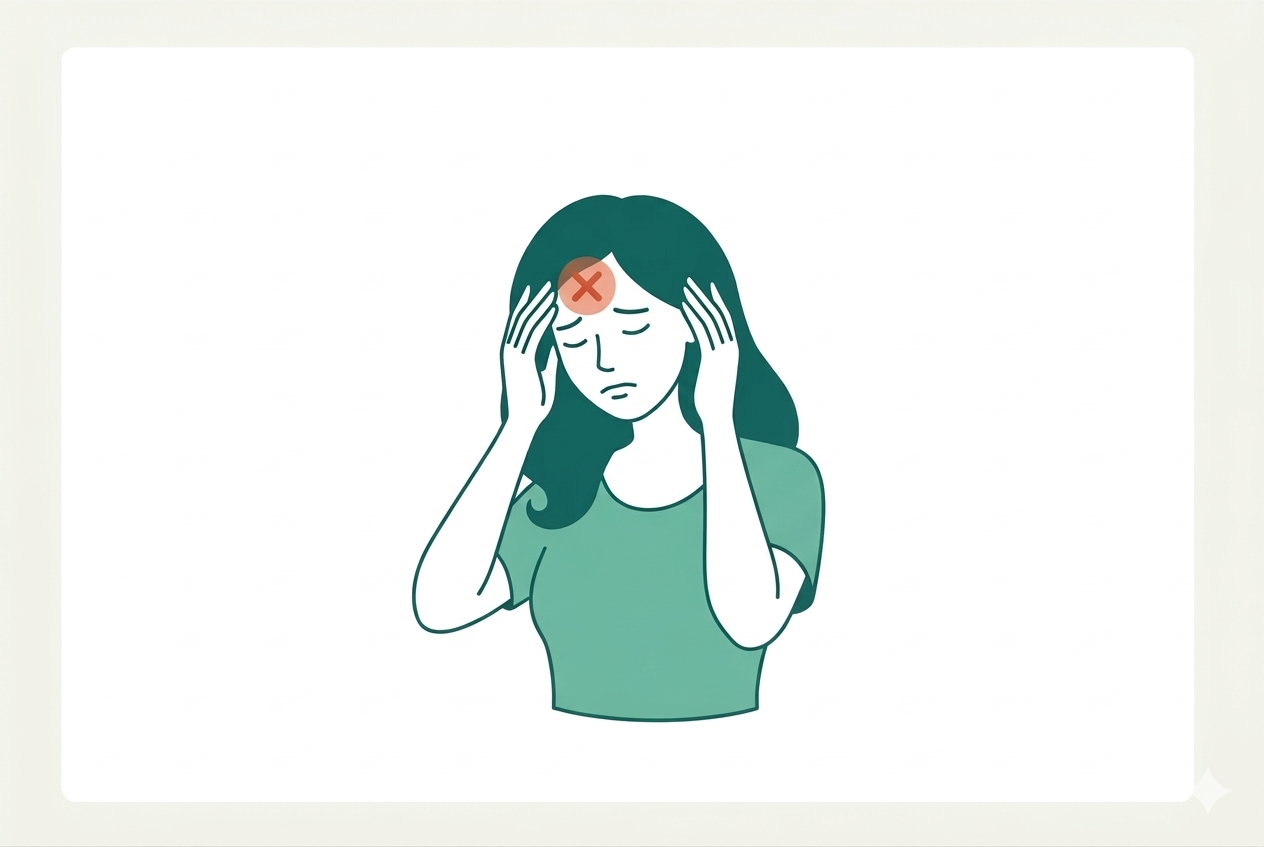
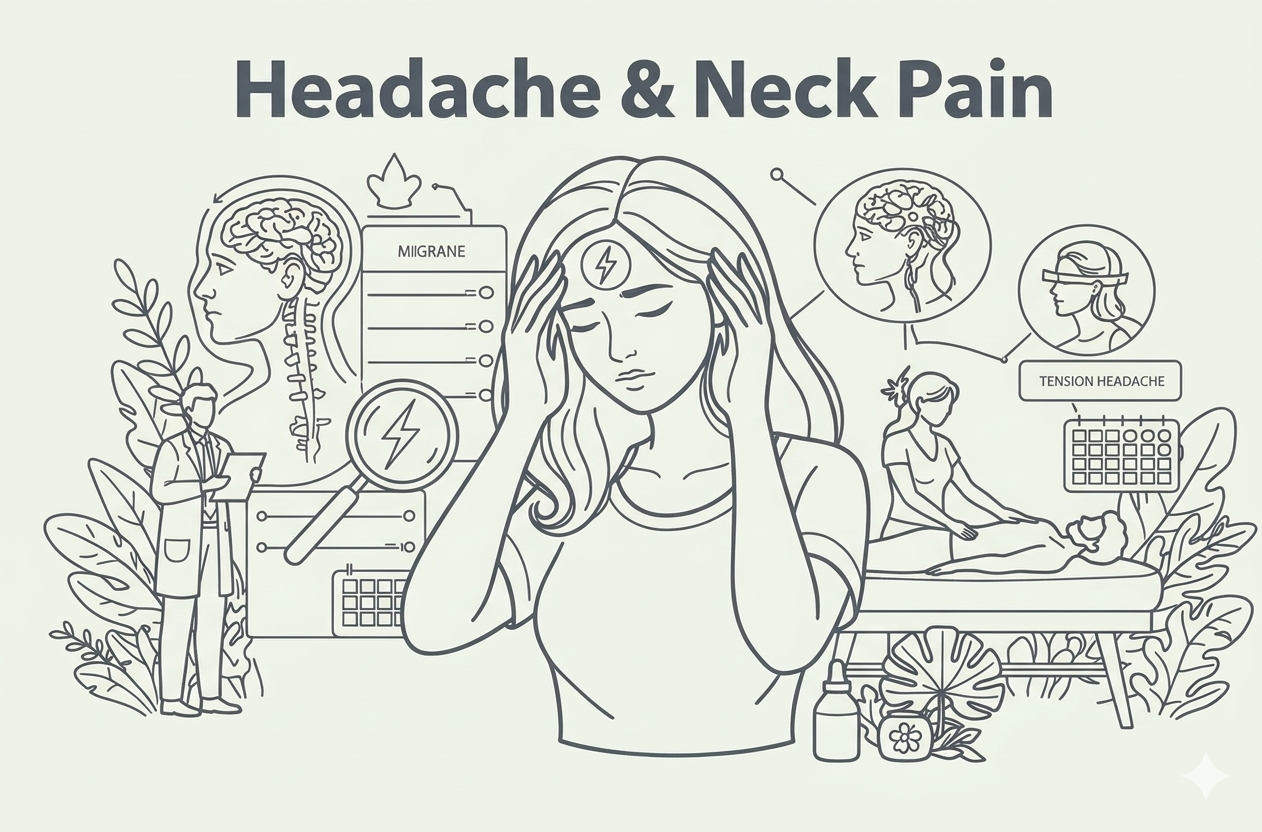
update image of services

diff --git a/app/about/page.js b/app/about/page.js
@@ -202,98 +202,97 @@ export default function AboutUs() {
           className="p-4 shadow-sm rounded-4"
           style={{ backgroundColor: "var(--color-card)" }}
         >
-          <Row className="g-4">
-            <Col md={4} style={{ position: "relative", minHeight: "300px" }}>
-              <Image
-                src="/aboutimg.jpg"
-                alt="About Me"
-                fill
-                className="rounded-4"
-                style={{ objectFit: "cover", borderRadius: "1rem" }}
-              />
-            </Col>
+          <Row className="g-5">
+          {/* IMAGE */}
+          <Col md={4} style={{ position: "relative", minHeight: "300px" }}>
+            <Image
+              src="/aboutimg.jpg"
+              alt="About Me"
+              fill
+              className="rounded-4"
+              style={{ objectFit: "cover", borderRadius: "1rem" }}
+            />
+          </Col>
 
-            <Col md={8}>
+          {/* TEXT */}
+          <Col md={8} className="ps-md-4">
+            <p
+              style={{
+                color: "var(--color-accent)",
+                fontSize: "var(--font-size-mlg)",
+                fontWeight: "var(--font-weight-regular)",
+              }}
+            >
+              I am dedicated to improving function, reducing pain, and enhancing
+              overall quality of life through comprehensive musculoskeletal and
+              pelvic health physiotherapy. I’m passionate about helping people feel
+              stronger, move with confidence, and reconnect with their bodies. My
+              career has taken me through a wide range of physiotherapy settings—from
+              acute rehabilitation, community/aged-care and neurology to pediatrics,
+              musculoskeletal care, and now expanding special interest in women’s and
+              pelvic health.
+            </p>
+
+            <p
+              style={{
+                color: "var(--color-accent)",
+                fontSize: "var(--font-size-mlg)",
+                fontWeight: "var(--font-weight-regular)",
+              }}
+            >
+              Since graduating in 2011, I’ve worked in private hospitals overseas
+              before settling in Launceston in 2017. Here in Australia, I’ve
+              continued to refine my MSK skills and develop a deep interest in
+              supporting women through all stages of life.
+            </p>
+
+            <p
+              style={{
+                color: "var(--color-accent)",
+                fontSize: "var(--font-size-mlg)",
+                fontWeight: "var(--font-weight-regular)",
+              }}
+            >
+              I believe in empowering people with knowledge, support, and practical
+              strategies that make a real difference. Every treatment plan I create
+              is personalized, realistic, and built around the individual—not just
+              their symptoms. My goal is to provide care that truly empowers you to
+              heal, strengthen, move, and thrive.
+            </p>
+
+            <Card
+              className="border-start border-3 border-success p-3 my-3"
+              style={{ backgroundColor: "var(--color-card)" }}
+            >
               <p
+                className="mb-0"
                 style={{
                   color: "var(--color-accent)",
-                  fontSize: "var(--font-size-mlg)",
-                  fontWeight: "var(--font-weight-regular)",
+                  fontWeight: "var(--font-weight-bold)",
                 }}
               >
-                I am dedicated to improving function, reducing pain, and
-                enhancing overall quality of life through comprehensive
-                musculoskeletal and pelvic health physiotherapy. I’m passionate
-                about helping people feel stronger, move with confidence, and
-                reconnect with their bodies. My career has taken me through a
-                wide range of physiotherapy settings—from acute rehabilitation,
-                community/aged-care and neurology to pediatrics, musculoskeletal
-                care, and now expanding special interest in women’s and pelvic
-                health.
+                <strong>
+                  <em>
+                    “I do not treat your scan or just your symptoms. I treat you —
+                    and how those symptoms affect your life, your relationships,
+                    and what is important to you.”
+                  </em>
+                </strong>
               </p>
+            </Card>
 
-              <p
-                style={{
-                  color: "var(--color-accent)",
-                  fontSize: "var(--font-size-mlg)",
-                  fontWeight: "var(--font-weight-regular)",
-                }}
-              >
-                Since graduating in 2011, I’ve worked in private hospitals
-                overseas before settling in Launceston in 2017. Here in
-                Australia, I’ve continued to refine my MSK skills and develop a
-                deep interest in supporting women through all stages of life.
-              </p>
-
-              <p
-                style={{
-                  color: "var(--color-accent)",
-                  fontSize: "var(--font-size-mlg)",
-                  fontWeight: "var(--font-weight-regular)",
-                }}
-              >
-                I believe in empowering people with knowledge, support, and
-                practical strategies that make a real difference. Every
-                treatment plan I create is personalized, realistic, and built
-                around the individual—not just their symptoms. My goal is to
-                provide care that truly empowers you to heal, strengthen, move,
-                and thrive.
-              </p>
-
-              <Card
-                className="border-start border-3 border-success p-3 my-3"
-                style={{ backgroundColor: "var(--color-card)" }}
-              >
-                <p
-                  className="mb-0"
-                  style={{
-                    color: "var(--color-accent)",
-                    fontWeight: "var(--font-weight-bold)",
-                  }}
-                >
-                  <strong>
-                    <em>
-                      “I do not treat your scan or just your symptoms. I treat
-                      you — and how those symptoms affect your life, your
-                      relationships, and what is important to you.”
-                    </em>
-                  </strong>
-                </p>
-              </Card>
-
-              <p
-                style={{
-                  color: "var(--color-accent)",
-                  fontSize: "var(--font-size-mlg)",
-                  fontWeight: "var(--font-weight-regular)",
-                }}
-              >
-                This reflects my belief that every person’s experience of pain
-                and recovery is unique and deserves care that sees the whole
-                individual.
-              </p>
-            </Col>
-          </Row>
+            <p
+              style={{
+                color: "var(--color-accent)",
+                fontSize: "var(--font-size-mlg)",
+                fontWeight: "var(--font-weight-regular)",
+              }}
+            >
+              This reflects my belief that every person’s experience of pain and
+              recovery is unique and deserves care that sees the whole individual.
+            </p>
+          </Col>
+        </Row>
 
           <Row className="text-center mt-4 g-4">
             <Col md={3}>

diff --git a/app/services/pre-post-surgery/page.js b/app/services/pre-post-surgery/page.js
@@ -2,7 +2,7 @@
 export const dynamic = "force-static";
 import React, { useEffect } from "react";
 import Image from "next/image";
-import surgery from "../../../public/prepost.png";
+import surgery from "../../../public/prepost1.png";
 import { Container, Row, Col, Card, Button } from "react-bootstrap";
 import { GiMuscleUp, GiLaserGun, GiHand, GiJawbone } from "react-icons/gi";
 import { FaCheck } from "react-icons/fa";

diff --git a/app/services/tmj-dysfunction/page.js b/app/services/tmj-dysfunction/page.js
@@ -2,7 +2,7 @@
 export const dynamic = "force-static";
 import React, { useEffect } from "react";
 import Image from "next/image";
-import tmj from "../../../public/tmj.png"; // put your image in the public folder
+import tmj from "../../../public/tmj1.png"; // put your image in the public folder
 import { Container, Row, Col, Card, Button } from "react-bootstrap";
 import {
   GiMuscleUp,

diff --git a/app/services/laser/page.js b/app/services/laser/page.js
@@ -5,7 +5,7 @@ import { Container, Row, Col, Card, Button } from "react-bootstrap";
 import { GiLaserGun } from "react-icons/gi";
 import { FaCheck } from "react-icons/fa";
 import Image from "next/image";
-import laser from "../../../public/laser.png";
+import laser from "../../../public/laser1.png";
 
 export default function ServiceDetailLaser() {
    useEffect(() => {

diff --git a/app/services/headache-neck-pain/page.js b/app/services/headache-neck-pain/page.js
@@ -2,7 +2,7 @@
 export const dynamic = "force-static";
 import React, { useEffect } from "react";
 import Image from "next/image";
-import headneck from "../../../public/head&neckPain.png";
+import headneck from "../../../public/head&neckPain1.png";
 import { Container, Row, Col, Card, Button } from "react-bootstrap";
 import { FaCheck } from "react-icons/fa";
 

diff --git a/app/services/dry-needling/page.js b/app/services/dry-needling/page.js
@@ -10,7 +10,7 @@ import {
 } from "react-icons/gi";
 import { FaCheck } from "react-icons/fa";
 import Image from "next/image";
-import dryneedling from "../../../public/dryneedling.png";
+import dryneedling from "../../../public/dryneedling1.png";
 
 export default function ServiceDetailDN() {
    useEffect(() => {

diff --git a/app/services/back-pain/page.js b/app/services/back-pain/page.js
@@ -10,7 +10,7 @@ import {
 } from "react-icons/gi";
 import { FaCheck } from "react-icons/fa";
 import Image from "next/image";
-import backPain from "../../../public/backpain.png";
+import backPain from "../../../public/backpain1.png";
 
 export default function ServiceDetailBackPain() {
     useEffect(() => {

diff --git a/app/services/balance-training/page.js b/app/services/balance-training/page.js
@@ -10,7 +10,7 @@ import {
 } from "react-icons/gi";
 import { FaCheck } from "react-icons/fa";
 import Image from "next/image";
-import laser from "../../../public/balance.png";
+import laser from "../../../public/balance1.png";
 
 export default function ServiceDetailBalance() {
    useEffect(() => {

diff --git a/app/services/mastitis-womens-health/page.js b/app/services/mastitis-womens-health/page.js
@@ -10,7 +10,7 @@ import {
   GiMuscleUp,
 } from "react-icons/gi";
 import Image from "next/image";
-import pelvicfloor from "../../../public/mastitis.png";
+import pelvicfloor from "../../../public/mastitis1.png";
 
 export default function ServiceDetailsWH() {
    useEffect(() => {

diff --git a/app/services/pain-management/page.js b/app/services/pain-management/page.js
@@ -10,7 +10,7 @@ import {
   GiBodyBalance,
 } from "react-icons/gi";
 import { FaCheck } from "react-icons/fa";
-import pain from "../../../public/pm.png";
+import pain from "../../../public/pm1.png";
 import Image from "next/image";
 
 export default function ServiceDetailPM() {
